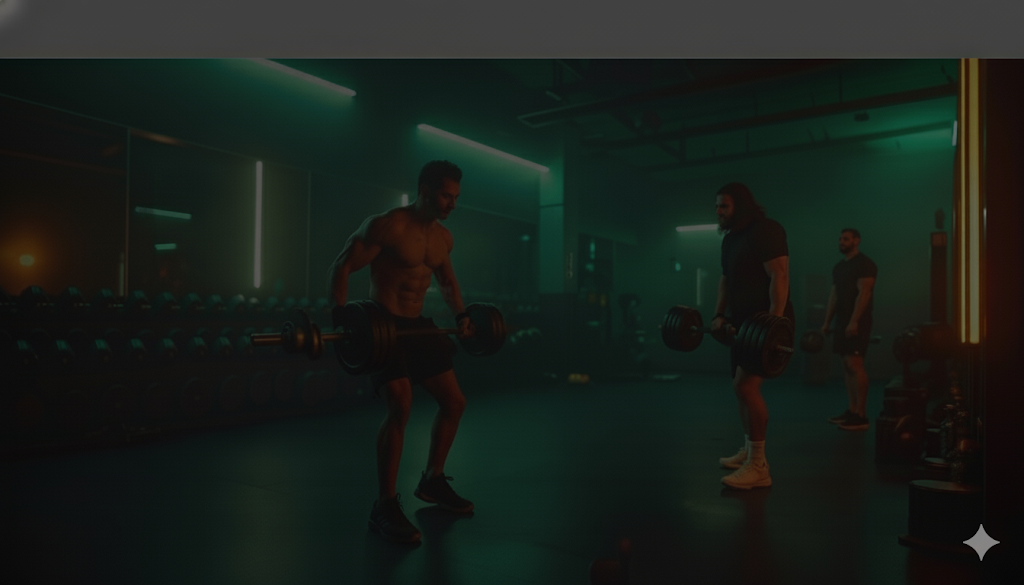
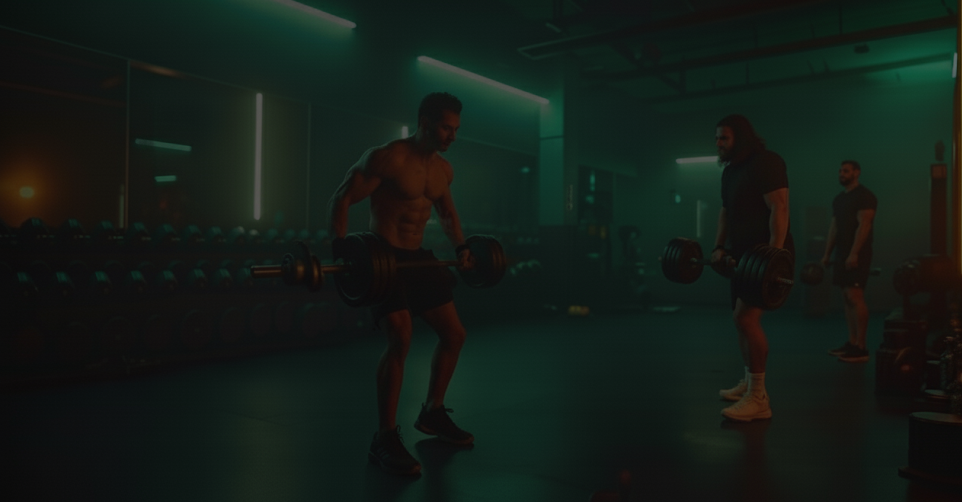
update

diff --git a/office/src/Home/Banner.jsx b/office/src/Home/Banner.jsx
@@ -8,7 +8,7 @@ const Banner = () => {
       <img
         src="/bg2.png"
         alt="banner"
-        className="w-full object-cover h-[calc(100vh-180px)] sm:h-[calc(80vh-150px)] md:h-screen"
+        className="w-full object-cover h-[calc(100vh-230px)] sm:h-[calc(100vh-140px)] md:h-screen"
         // h-[calc(100vh-30px)] subtracts 15px top + 15px bottom
       />
 
